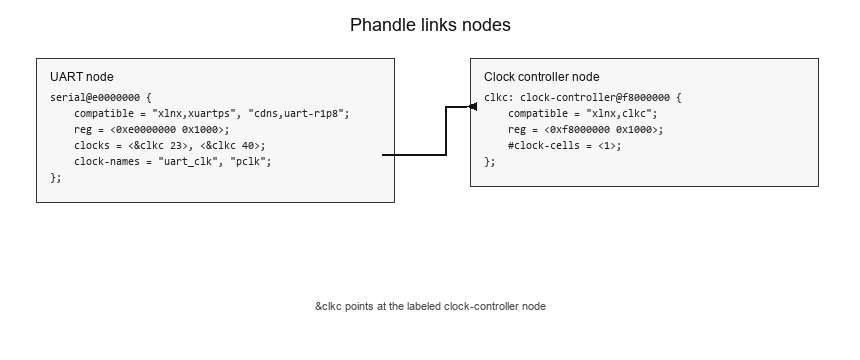
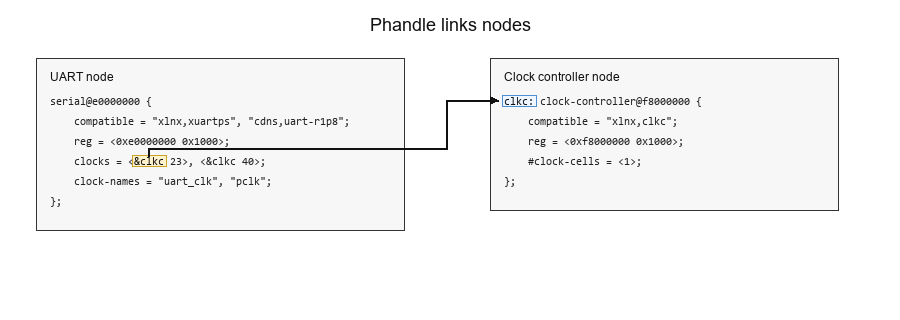
Fix Part 2 phandle figure arrow to start from &clkc.

diff --git a/posts/embedded_linux/generate_part2_figures.py b/posts/embedded_linux/generate_part2_figures.py
@@ -298,13 +298,12 @@ def draw_node_box(
 
 
 def draw_phandle(path: Path) -> None:
-    W, H = 860, 360
+    W, H = 900, 320
     img = Image.new("RGB", (W, H), "white")
     draw = ImageDraw.Draw(img)
     title_font = load_font(18)
     node_title = load_font(12)
     code_font = load_font(11, mono=True)
-    note_font = load_font(11)
 
     title = "Phandle links nodes"
     tw, _ = text_size(draw, title, title_font)
@@ -326,30 +325,72 @@ def draw_phandle(path: Path) -> None:
         "};",
     ]
 
-    left = draw_node_box(draw, 36, 58, "UART node", serial_lines, code_font, node_title, min_w=330)
-    right = draw_node_box(draw, 470, 58, "Clock controller node", clk_lines, code_font, node_title, min_w=320)
+    pad_x, pad_y, line_h = 14, 12, 20
+    left_x, box_y = 36, 58
+    right_x = 490
 
-    # Arrow from clocks property in UART node to clkc label on clock-controller node
-    clocks_y = 58 + 12 + 16 + 6 + 3 * 16 + 8
-    target_x = right[0]
-    target_y = 58 + 12 + 16 + 6 + 8
-    draw_arrow(
-        draw,
-        [
-            (left[2] - 12, clocks_y + 6),
-            (target_x - 24, clocks_y + 6),
-            (target_x - 24, target_y + 6),
-            (target_x - 4, target_y + 6),
-        ],
-        width=2,
-    )
+    def box_height(lines: list[str]) -> int:
+        return pad_y + line_h + 8 + len(lines) * line_h + pad_y
 
-    draw.text(
-        ((W - text_size(draw, "&clkc points at the labeled clock-controller node", note_font)[0]) / 2, 300),
-        "&clkc points at the labeled clock-controller node",
-        fill="#444",
-        font=note_font,
+    def box_width(title: str, lines: list[str], min_w: int) -> int:
+        inner = max(min_w, max(text_size(draw, ln, code_font)[0] for ln in lines) + 8)
+        inner = max(inner, text_size(draw, title, node_title)[0] + 8)
+        return inner + 2 * pad_x
+
+    left_w = box_width("UART node", serial_lines, 340)
+    right_w = box_width("Clock controller node", clk_lines, 320)
+    left_h = box_height(serial_lines)
+    right_h = box_height(clk_lines)
+
+    draw.rectangle([left_x, box_y, left_x + left_w, box_y + left_h], fill="#f7f7f7", outline="#333", width=1)
+    draw.rectangle([right_x, box_y, right_x + right_w, box_y + right_h], fill="#f7f7f7", outline="#333", width=1)
+    draw.text((left_x + pad_x, box_y + pad_y), "UART node", fill="#111", font=node_title)
+    draw.text((right_x + pad_x, box_y + pad_y), "Clock controller node", fill="#111", font=node_title)
+
+    code_top = box_y + pad_y + line_h + 6
+    for i, ln in enumerate(serial_lines):
+        draw.text((left_x + pad_x, code_top + i * line_h), ln, fill="#222", font=code_font)
+    for i, ln in enumerate(clk_lines):
+        draw.text((right_x + pad_x, code_top + i * line_h), ln, fill="#222", font=code_font)
+
+    clocks_i = 3
+    clocks_line = serial_lines[clocks_i]
+    clocks_y = code_top + clocks_i * line_h
+    phandle = "&clkc"
+    phandle_x = left_x + pad_x + text_size(draw, clocks_line.split(phandle)[0], code_font)[0]
+    phandle_w = text_size(draw, phandle, code_font)[0]
+    glyph_h = text_size(draw, phandle, code_font)[1]
+
+    draw.rectangle(
+        [phandle_x - 2, clocks_y - 1, phandle_x + phandle_w + 2, clocks_y + glyph_h + 2],
+        fill="#fff3cd",
+        outline="#c9a227",
+        width=1,
     )
+    draw.text((phandle_x, clocks_y), phandle, fill="#111", font=code_font)
+
+    label = "clkc:"
+    label_x = right_x + pad_x
+    label_y = code_top
+    label_w = text_size(draw, label, code_font)[0]
+    label_mid_y = label_y + glyph_h // 2
+    draw.rectangle(
+        [label_x - 2, label_y - 1, label_x + label_w + 2, label_y + glyph_h + 2],
+        fill="#eef6ff",
+        outline="#4a8fd4",
+        width=1,
+    )
+    draw.text((label_x, label_y), label, fill="#111", font=code_font)
+
+    # From &clkc: up into the inter-line gap, across, then into clkc:
+    start_x = phandle_x + phandle_w // 2
+    lift_y = clocks_y - 8
+    mid_x = (left_x + left_w + right_x) // 2
+    end_x = label_x - 6
+    draw.line([start_x, clocks_y, start_x, lift_y], fill="#111111", width=2)
+    draw.line([start_x, lift_y, mid_x, lift_y], fill="#111111", width=2)
+    draw.line([mid_x, lift_y, mid_x, label_mid_y], fill="#111111", width=2)
+    draw_arrow_h(draw, mid_x, label_mid_y, end_x)
 
     img.save(path)
 
